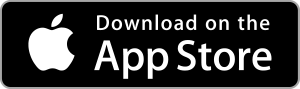
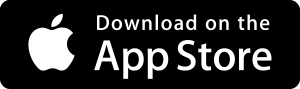
Updated stores images

Changed region(s): [[0.0, 0.0, 1.0, 1.0]]

diff --git a/reglas.html b/reglas.html
@@ -87,12 +87,10 @@
             <h6>Resultados</h6>
         </div>
         <div>
-            <iframe id="results" src="https://docs.google.com/spreadsheets/d/e/2PACX-1vSh-bQwR2Q1lOVvnEHgR8gPxkGyQarvJURedMhC31oWSsDf0F8zEL_m3PYmo7rQr3ZnaKdFmYdWemjd/pubhtml?gid=1847230289&amp;single=true&amp;widget=true&amp;headers=false"></iframe>
+            <iframe id="results" src="https://docs.google.com/spreadsheets/d/e/2PACX-1vSh-bQwR2Q1lOVvnEHgR8gPxkGyQarvJURedMhC31oWSsDf0F8zEL_m3PYmo7rQr3ZnaKdFmYdWemjd/pubhtml?gid=399945327&amp;single=true&amp;widget=true&amp;headers=false"></iframe>
         </div>
     </body>
 </html>
-
-
 
     <!-- ¡Hola! Soy Tomas, creador de El Intruso.Para más información visita:
     www.facebook.com/elintrusopartygame

diff --git a/index.js b/index.js
@@ -48,9 +48,8 @@ let icons = document.getElementById("Icons")
 
 function switchToEnglish() {
     // Switch to appropiate language
-    if (isInSpanish) {
-        isInSpanish = false
-    }
+    isInSpanish = false
+
 
     welcomeTo.textContent = "Welcome to"
     theIntruder.textContent = "The Intruder"
@@ -67,9 +66,8 @@ function switchToEnglish() {
 
 function switchToSpanish() {
     // Switch to appropiate language
-    if (isInSpanish == false) {
-        isInSpanish = true
-    }
+    isInSpanish = true  
+
 
     welcomeTo.textContent = "Bienvenidos a"
     theIntruder.textContent = "El Intruso"
